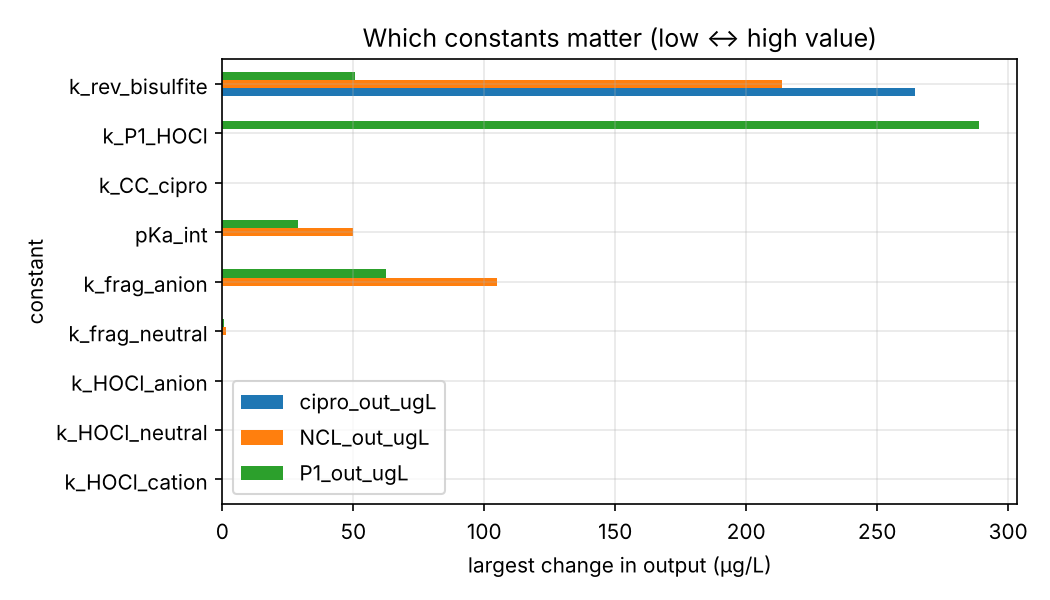
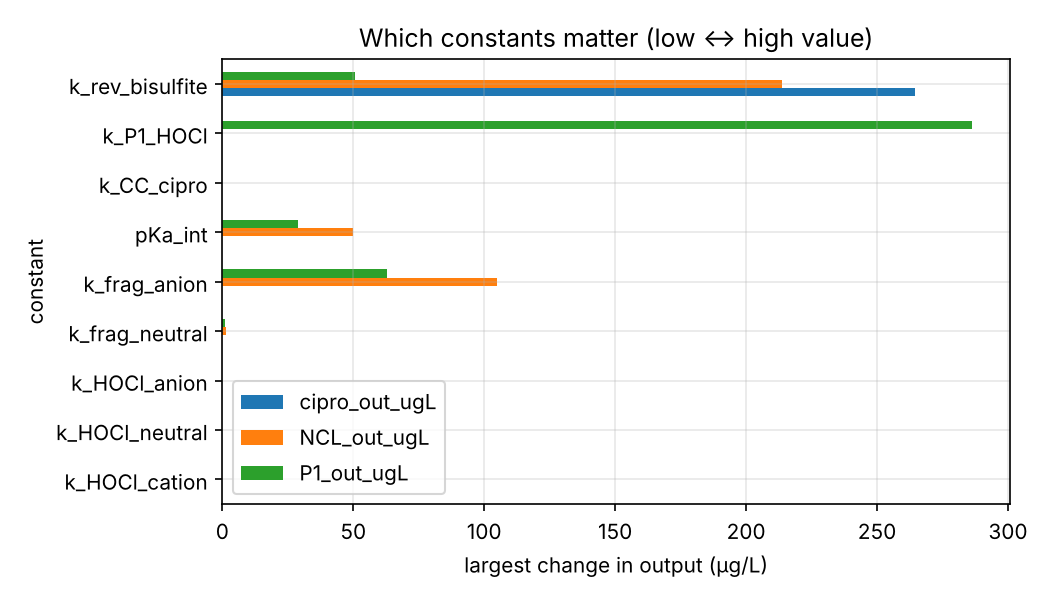
Fix chlorine use by later products (2 Cl, Dodd Scheme 1), add NH2Cl hydrolysis, log-time zoom on page
Claude-Session: https://claude.ai/code/session_017fch66ETc3UDsQXLRaahr5

diff --git a/web/cipro_model_explorer.html b/web/cipro_model_explorer.html
@@ -130,8 +130,13 @@ td.num { font-family: var(--f-data); white-space: nowrap; }
       </section>
 
       <section class="card" aria-labelledby="h-time">
+        <div class="headrow"><div>
         <h2 id="h-time">Cipro and its products over time</h2>
-        <p class="sub" id="timeSub"></p>
+        <p class="sub" id="timeSub"></p></div>
+        <div class="seg" role="group" aria-label="Time axis" id="tscale" style="grid-template-columns:repeat(2,minmax(0,1fr));min-width:220px">
+          <button type="button" data-v="lin" aria-pressed="true">Whole contact time</button>
+          <button type="button" data-v="log" aria-pressed="false">Zoom: first second (log)</button>
+        </div></div>
         <div class="legend" id="legTime"></div>
         <div class="chartbox" id="cTime"></div>
       </section>
@@ -166,7 +171,7 @@ td.num { font-family: var(--f-data); white-space: nowrap; }
         <div class="legend"><span><i style="background:var(--s1)"></i>Wastewater, pH 7.3</span><span><i style="background:var(--s2)"></i>Drinking water, pH 6.6</span><span>● measured · line = model</span></div>
         <div class="chartbox" id="cVal"></div>
         <h2 style="margin-top:18px;font-size:0.98rem">Second check: Kennedy Neth et al. 2019 (chlorine used up)</h2>
-        <p class="sub">2.33 mg/L cipro + 2.0 mg/L chlorine in ultrapure water, no chlorine demand, pH assumed 7 (not stated in the supplement). Tests how much chlorine cipro and its products consume. Nothing fitted; the "P1 + chlorine" knob changes the 120-minute numbers.</p>
+        <p class="sub">2.33 mg/L cipro + 2.0 mg/L chlorine in ultrapure water, no chlorine demand, pH assumed 7 (not stated in the supplement). Tests how much chlorine cipro and its products consume. Nothing fitted to these numbers; the 2-chlorine step comes from Dodd's product structures.</p>
         <div class="tbl" id="tKN"></div>
         <h2 style="margin-top:18px;font-size:0.98rem">Kennedy Neth 2019, Fig. 2A: cipro and activity over time (fails)</h2>
         <p class="sub">They stopped the reaction with hydrogen peroxide and measured cipro by LC-MS. About 30% of the cipro stayed for 2 hours. Dodd's kinetics, and so this model, say none should survive. The two labs disagree, and the authors note their rate was about 100× slower than published values. Their antibacterial activity (PEQ) stayed about 0.4 above what the leftover cipro explains, which supports active products. Values are my pixel readings.</p>
@@ -213,10 +218,11 @@ td.num { font-family: var(--f-data); white-space: nowrap; }
             <tr><td>HOCl + cipro (cation / neutral / anion)</td><td class="num">4.3 × 10³ / 3.8 × 10⁵ / 4.9 × 10⁷</td><td>Dodd 2005 Table 3</td><td><span class="pill y">verified</span></td></tr>
             <tr><td>Chloramine + cipro</td><td class="num">29 M⁻¹s⁻¹</td><td>Dodd 2005 p. 7074 (k′ 4.4 × 10⁻⁴ s⁻¹ at 15 µM)</td><td><span class="pill y">derived</span></td></tr>
             <tr><td>N-chloro-cipro → P1</td><td class="num">2.4–7.6 × 10⁻⁴ s⁻¹</td><td>Dodd 2005 p. 7071; Jasper 2016 5.6 × 10⁻⁴ at pH 8.7</td><td><span class="pill">pH split estimated</span></td></tr>
-            <tr><td>P1 + HOCl → P2</td><td class="num">13 M⁻¹s⁻¹</td><td>read off Dodd Fig. 3</td><td><span class="pill">rough</span></td></tr>
+            <tr><td>P1 + HOCl → P2</td><td class="num">13 M⁻¹s⁻¹, 2 Cl used</td><td>rate read off Dodd Fig. 3; 2 Cl from Dodd Scheme 1</td><td><span class="pill">rough</span></td></tr>
+            <tr><td>NH₂Cl → HOCl + NH₃</td><td class="num">2.1 × 10⁻⁵ s⁻¹</td><td>Jafvert &amp; Valentine 1992</td><td><span class="pill">check paper</span></td></tr>
             <tr><td>Bisulfite + N-chloro-cipro → cipro</td><td class="num">knob</td><td>proposed by Dodd p. 7073, never measured</td><td><span class="pill n">Gap 2</span></td></tr>
           </tbody></table></div>
-        <p>Not modelled yet: chloramine decay and demand, dichloramine, temperature (all values near 22–25 °C), mixing at the dosing point. Solver: implicit (backward Euler) steps, checked against the Python version in the GitHub repo to within 0.3%.</p>
+        <p>Updated Oct 6: later products now take 2 chlorines each (Dodd Scheme 1), and chloramine slowly breaks down (hydrolysis, 2.1 × 10⁻⁵ s⁻¹, Jafvert &amp; Valentine 1992). Not modelled yet: chloramine reacting with the water's own organic matter, dichloramine, products that lose activity (Kennedy Neth), temperature (values near 22–25 °C), mixing at the dosing point. Solver: implicit (backward Euler) steps, checked against the Python version in the GitHub repo to within 0.3%.</p>
       </section>
     </main>
   </div>
@@ -228,11 +234,11 @@ td.num { font-family: var(--f-data); white-space: nowrap; }
 const RIS = (function () {
   const MW_CL2 = 70.9, MW_N = 14.0, MW_CIP = 331.35;
   const DEFAULTS = {
-    pKa_HOCl: 7.54, pKa_NH4: 9.25, k_NH3_HOCl: 3.07e6, k_demand: 2e-4,        // Morris 1966; Qiang & Adams 2004
+    pKa_HOCl: 7.54, pKa_NH4: 9.25, k_NH3_HOCl: 3.07e6, k_hyd_NH2Cl: 2.1e-5, k_demand: 2e-4,        // Morris 1966; Qiang & Adams 2004
     pKa1: 6.2, pKa2: 8.8,                                                      // Dodd 2005 Table 1
     k_HOCl_cation: 4.3e3, k_HOCl_neutral: 3.8e5, k_HOCl_anion: 4.9e7,          // Dodd 2005 Table 3
     k_frag_neutral: 2.4e-4, k_frag_anion: 7.6e-4, pKa_int: 6.2,                // Dodd 2005 p. 7071 (split = estimate)
-    k_CC_cipro: 29, k_P1_HOCl: 13, k_rev_bisulfite: 0,                         // Dodd p. 7074; Fig 3 estimate; unknown
+    k_CC_cipro: 29, k_P1_HOCl: 13, n_Cl_P1: 2, k_rev_bisulfite: 0,                         // Dodd p. 7074; Fig 3 estimate; unknown
   };
   const acid = (pH, pKa) => 1 / (1 + Math.pow(10, pH - pKa));
 
@@ -252,11 +258,11 @@ const RIS = (function () {
   function rates(y, p, c, out) {
     const FC = y[0], TA = y[1], MCA = y[2], CIP = y[4], NCL = y[5], P1 = y[6];
     const HOCl = c.aHOCl * FC, NH3 = c.aNH3 * TA;
-    const rMCA = p.k_NH3_HOCl * HOCl * NH3, rDem = p.k_demand * FC;
+    const rMCA = p.k_NH3_HOCl * HOCl * NH3, rDem = p.k_demand * FC, rHyd = p.k_hyd_NH2Cl * MCA;
     const rH = c.kH * HOCl * CIP, rCC = p.k_CC_cipro * MCA * CIP, rF = c.kf * NCL, rP = p.k_P1_HOCl * HOCl * P1;
-    out[0] = -rMCA - rDem - rH - rP;
-    out[1] = -rMCA;
-    out[2] = rMCA - rCC;
+    out[0] = -rMCA - rDem - rH - p.n_Cl_P1 * rP + rHyd;
+    out[1] = -rMCA + rHyd;
+    out[2] = rMCA - rCC - rHyd;
     out[3] = FC * MW_CL2 * 1000 / 60;
     out[4] = -rH - rCC;
     out[5] = rH + rCC - rF;
@@ -402,7 +408,7 @@ const SER = [
   { k: 6, name: 'P1 (keeps core)', color: 'var(--s2)' },
   { k: 7, name: 'P2 later products (keep core)', color: 'var(--s5)' },
 ];
-let mode = 'free', baseWater = 'ww';
+let mode = 'free', baseWater = 'ww', tscale = 'lin';
 
 const fmt = (v, n = 1) => !isFinite(v) ? '–' : Math.abs(v) >= 100 ? v.toFixed(0) : Math.abs(v) >= 10 ? v.toFixed(n) : v.toFixed(Math.max(n, 1));
 const sci = v => { if (v === 0) return '0'; const e = Math.floor(Math.log10(v)), m = v / Math.pow(10, e); return `${m.toFixed(1)} × 10${String(e).replace('-', '⁻').replace(/\d/g, d => '⁰¹²³⁴⁵⁶⁷⁸⁹'[d])}`; };
@@ -440,7 +446,7 @@ function chart(boxId, o) {
   const Y = y => m.t + (1 - y / yMax) * (H - m.t - m.b);
   if (o.band) el('rect', { x: X(o.band[0]), y: m.t, width: X(o.band[1]) - X(o.band[0]), height: H - m.t - m.b, fill: 'var(--band)' }, svg);
   for (let i = 0; i <= 4; i++) { const v = yMax * i / 4; el('line', { x1: m.l, x2: W - m.r, y1: Y(v), y2: Y(v), stroke: 'var(--grid)' }, svg); const t = el('text', { x: m.l - 7, y: Y(v) + 4, 'text-anchor': 'end' }, svg); t.textContent = o.yFmt ? o.yFmt(v) : fmt(v); }
-  (o.xTicks).forEach(x => { el('line', { x1: X(x), x2: X(x), y1: H - m.b, y2: H - m.b + 4, stroke: 'var(--muted)' }, svg); const t = el('text', { x: X(x), y: H - m.b + 17, 'text-anchor': 'middle' }, svg); t.textContent = x; });
+  (o.xTicks).forEach(x => { el('line', { x1: X(x), x2: X(x), y1: H - m.b, y2: H - m.b + 4, stroke: 'var(--muted)' }, svg); const t = el('text', { x: X(x), y: H - m.b + 17, 'text-anchor': 'middle' }, svg); t.textContent = o.tickFmt ? o.tickFmt(x) : x; });
   const xl = el('text', { x: m.l, y: H - 6, style: 'fill:var(--ink-2)' }, svg); xl.textContent = o.xLabel + '   ·   ' + o.yLabel;
   if (o.band && o.bandLabel) { const t = el('text', { x: X(o.band[0]) + 5, y: m.t + 12 }, svg); t.textContent = o.bandLabel; }
   o.series.forEach(s => {
@@ -487,11 +493,20 @@ function compute() {
   series.push({ name: "'Cipro' read after thiosulfate", color: 'var(--ink-2)', dash: '5 4', w: 1.5,
     pts: thin.map(i => [tr.T[i] / 60, ug(tr.Y[i][4] + tr.Y[i][5])]) });
   const tick = n => { const st = niceMax(n / 6); const a = []; for (let x = 0; x <= n + 1e-9; x += st) a.push(+x.toFixed(2)); return a; };
-  chart('cTime', { aria: 'Ciprofloxacin, N-chloro-cipro and products over time', xMax: total || 1, yMax: niceMax(C0ug), series,
-    xTicks: tick(total), xLabel: 'Minutes', yLabel: 'µg/L, cipro-equivalent', xName: 'time', xFmt: v => v.toFixed(1) + ' min',
-    band: s.after_min > 0 ? [tEnd, total] : null, bandLabel: 'after bisulfite' });
+  const tFmt = v => v < 1 / 60 ? (v * 60000 < 1000 ? (v * 60000).toPrecision(2) + ' ms' : '') : v < 1 ? (v * 60).toPrecision(2) + ' s' : v.toFixed(v < 10 ? 1 : 0) + ' min';
+  if (tscale === 'log') {
+    const xMinL = 1e-5, logS = series.map(sr => Object.assign({}, sr, { pts: sr.pts.filter(q => q[0] >= xMinL) }));
+    chart('cTime', { aria: 'Ciprofloxacin, N-chloro-cipro and products over time, log time axis', logX: true, xMin: xMinL, xMax: total || 1, yMax: niceMax(C0ug), series: logS,
+      xTicks: [1e-5, 1e-4, 1e-3, 1 / 60, 1, 10, 100].filter(x => x <= total), tickFmt: v => v === 1e-5 ? '0.6 ms' : v === 1e-4 ? '6 ms' : v === 1e-3 ? '60 ms' : v === 1 / 60 ? '1 s' : v + ' min',
+      xLabel: 'Time (log scale)', yLabel: 'µg/L, cipro-equivalent', xName: 'time', xFmt: tFmt,
+      band: s.after_min > 0 ? [tEnd, total] : null, bandLabel: 'after bisulfite' });
+  } else {
+    chart('cTime', { aria: 'Ciprofloxacin, N-chloro-cipro and products over time', xMax: total || 1, yMax: niceMax(C0ug), series,
+      xTicks: tick(total), xLabel: 'Minutes', yLabel: 'µg/L, cipro-equivalent', xName: 'time', xFmt: tFmt,
+      band: s.after_min > 0 ? [tEnd, total] : null, bandLabel: 'after bisulfite' });
+  }
   $('legTime').innerHTML = SER.map(r => `<span><i style="background:${r.color}"></i>${r.name}</span>`).join('') + `<span><i class="dash"></i>'Cipro' a lab reads after a thiosulfate quench</span>`;
-  $('timeSub').textContent = `Beaker view (ideal pipe). Cipro is gone within ${s.mode === 'preformed' ? 'minutes (pre-formed chloramine reacts slowly)' : 'a fraction of a second'}; the shaded strip is after bisulfite.`;
+  $('timeSub').textContent = s.mode === 'preformed' ? 'Beaker view (ideal pipe). Pre-formed chloramine reacts slowly, so cipro fades over minutes. The shaded strip is after bisulfite.' : 'Beaker view (ideal pipe). Cipro is gone in milliseconds (use the zoom to see it). The minutes axis is for what matters next: N-chloro-cipro breaking down, which sets what bisulfite can turn back. The shaded strip is after bisulfite.';
 
   // chlorine
   const mg = v => v * RIS.MW_CL2 * 1000;
@@ -606,6 +621,9 @@ $('mode').querySelectorAll('button').forEach(bt => bt.addEventListener('click', 
 }));
 $('bw').querySelectorAll('button').forEach(bt => bt.addEventListener('click', () => {
   baseWater = bt.dataset.v; $('bw').querySelectorAll('button').forEach(x => x.setAttribute('aria-pressed', x === bt)); compute();
+}));
+$('tscale').querySelectorAll('button').forEach(bt => bt.addEventListener('click', () => {
+  tscale = bt.dataset.v; $('tscale').querySelectorAll('button').forEach(x => x.setAttribute('aria-pressed', x === bt)); compute();
 }));
 $('reset').addEventListener('click', () => {
   Object.entries(DEF).forEach(([k, v]) => { $(k).value = v; }); mode = 'free';

diff --git a/web/model.js b/web/model.js
@@ -3,11 +3,11 @@
 const RIS = (function () {
   const MW_CL2 = 70.9, MW_N = 14.0, MW_CIP = 331.35;
   const DEFAULTS = {
-    pKa_HOCl: 7.54, pKa_NH4: 9.25, k_NH3_HOCl: 3.07e6, k_demand: 2e-4,        // Morris 1966; Qiang & Adams 2004
+    pKa_HOCl: 7.54, pKa_NH4: 9.25, k_NH3_HOCl: 3.07e6, k_hyd_NH2Cl: 2.1e-5, k_demand: 2e-4,        // Morris 1966; Qiang & Adams 2004
     pKa1: 6.2, pKa2: 8.8,                                                      // Dodd 2005 Table 1
     k_HOCl_cation: 4.3e3, k_HOCl_neutral: 3.8e5, k_HOCl_anion: 4.9e7,          // Dodd 2005 Table 3
     k_frag_neutral: 2.4e-4, k_frag_anion: 7.6e-4, pKa_int: 6.2,                // Dodd 2005 p. 7071 (split = estimate)
-    k_CC_cipro: 29, k_P1_HOCl: 13, k_rev_bisulfite: 0,                         // Dodd p. 7074; Fig 3 estimate; unknown
+    k_CC_cipro: 29, k_P1_HOCl: 13, n_Cl_P1: 2, k_rev_bisulfite: 0,                         // Dodd p. 7074; Fig 3 estimate; unknown
   };
   const acid = (pH, pKa) => 1 / (1 + Math.pow(10, pH - pKa));
 
@@ -27,11 +27,11 @@ const RIS = (function () {
   function rates(y, p, c, out) {
     const FC = y[0], TA = y[1], MCA = y[2], CIP = y[4], NCL = y[5], P1 = y[6];
     const HOCl = c.aHOCl * FC, NH3 = c.aNH3 * TA;
-    const rMCA = p.k_NH3_HOCl * HOCl * NH3, rDem = p.k_demand * FC;
+    const rMCA = p.k_NH3_HOCl * HOCl * NH3, rDem = p.k_demand * FC, rHyd = p.k_hyd_NH2Cl * MCA;
     const rH = c.kH * HOCl * CIP, rCC = p.k_CC_cipro * MCA * CIP, rF = c.kf * NCL, rP = p.k_P1_HOCl * HOCl * P1;
-    out[0] = -rMCA - rDem - rH - rP;
-    out[1] = -rMCA;
-    out[2] = rMCA - rCC;
+    out[0] = -rMCA - rDem - rH - p.n_Cl_P1 * rP + rHyd;
+    out[1] = -rMCA + rHyd;
+    out[2] = rMCA - rCC - rHyd;
     out[3] = FC * MW_CL2 * 1000 / 60;
     out[4] = -rH - rCC;
     out[5] = rH + rCC - rF;

diff --git a/ris/cipro_model.py b/ris/cipro_model.py
@@ -54,6 +54,9 @@ CIPRO = {
     # CF-Pa1 + HOCl -> later products, M^-1 s^-1. ROUGH ESTIMATE from Dodd 2005 Fig. 3:
     # CF-Pa1 signal falls ~0.92 -> 0.53 between 60 and 120 min at FAC ~1.3e-5 M, pH 6.5.
     "k_P1_HOCl": 13.0,
+    # Chlorine used per CF-Pa1 -> later-product event. Dodd Scheme 1: CF-Pa1's ethylenediamine
+    # picks up 2 Cl (CF-Ia2), later 3 Cl (CF-Ia3). Was 1 (too low: Kennedy Neth chlorine data).
+    "n_Cl_P1": 2.0,
     # Bisulfite turning CF-Ia1 back into cipro, s^-1. UNKNOWN: Gap 2, you measure this.
     # Dodd shows thiosulfate does it and says sulfite should (p. 7073), but gives no rate.
     "k_rev_bisulfite": 0.0,
@@ -111,7 +114,7 @@ def rates(t, y, pH, p=CIPRO, c=cb.CHLORINE):
     r_frag = k_frag(pH, p) * NCL                # CF-Ia1 -> CF-Pa1
     r_P1   = p["k_P1_HOCl"] * HOCl * P1         # CF-Pa1 + HOCl -> later products
 
-    dFC  -= r_HOCl + r_P1                       # two-way link: cipro uses up chlorine
+    dFC  -= r_HOCl + p.get("n_Cl_P1", 1.0) * r_P1                       # two-way link: cipro uses up chlorine
     dMCA -= r_CC                                # (1 mol chlorine per mol cipro, Dodd p. 7069)
 
     return [dFC, dTA, dMCA, dCT,

diff --git a/ris/chlorine_backbone.py b/ris/chlorine_backbone.py
@@ -26,6 +26,7 @@ CHLORINE = {
     "pKa_HOCl":   7.54,    # Morris 1966, J. Phys. Chem. (verify in paper)
     "pKa_NH4":    9.25,    # Bates & Pinching 1949
     "k_NH3_HOCl": 3.07e6,  # M^-1 s^-1, Qiang & Adams 2004 (verified from abstract)
+    "k_hyd_NH2Cl": 2.1e-5, # s^-1, NH2Cl + H2O -> HOCl + NH3 (Jafvert & Valentine 1992)
     "k_demand":   2e-4,    # s^-1, PLACEHOLDER: fit to published residual chlorine, then to own DPD data (Nov)
 }
 
@@ -73,10 +74,11 @@ def backbone_rates(FC, TA, MCA, pH, c=CHLORINE):
     NH3 = a_NH3 * TA                                      # reactive part of ammonia
 
     r_chloramine = c["k_NH3_HOCl"] * HOCl * NH3           # HOCl + NH3 -> NH2Cl
+    r_hyd = c.get("k_hyd_NH2Cl", 0.0) * MCA               # NH2Cl -> HOCl + NH3 (slow)
     r_demand = c["k_demand"] * FC                         # chlorine eaten by organics
 
-    dFC = -r_chloramine - r_demand
-    dTA = -r_chloramine
-    dMCA = +r_chloramine
+    dFC = -r_chloramine - r_demand + r_hyd
+    dTA = -r_chloramine + r_hyd
+    dMCA = +r_chloramine - r_hyd
     dCT = FC * MW_Cl2 * 1000 / 60                         # mg/L x min, from free chlorine
     return [dFC, dTA, dMCA, dCT], HOCl

diff --git a/tests/test_model.py b/tests/test_model.py
@@ -95,4 +95,4 @@ def test_kennedyneth_chlorine_use():
     subprocess.run([sys.executable, str(ROOT / "scripts/check_kennedyneth.py")], check=True, capture_output=True)
     r = json.loads((ROOT / "results_kennedyneth.json").read_text())["model"]["pH 7.0"]
     assert abs(r["CT10"]["error_pct"]) < 5          # cipro uses 1 chlorine per molecule, instantly
-    assert abs(r["CT120"]["error_pct"]) < 25        # known: later products use more chlorine than modelled
+    assert abs(r["CT120"]["error_pct"]) < 10        # later products take 2 Cl each (Dodd Scheme 1)
